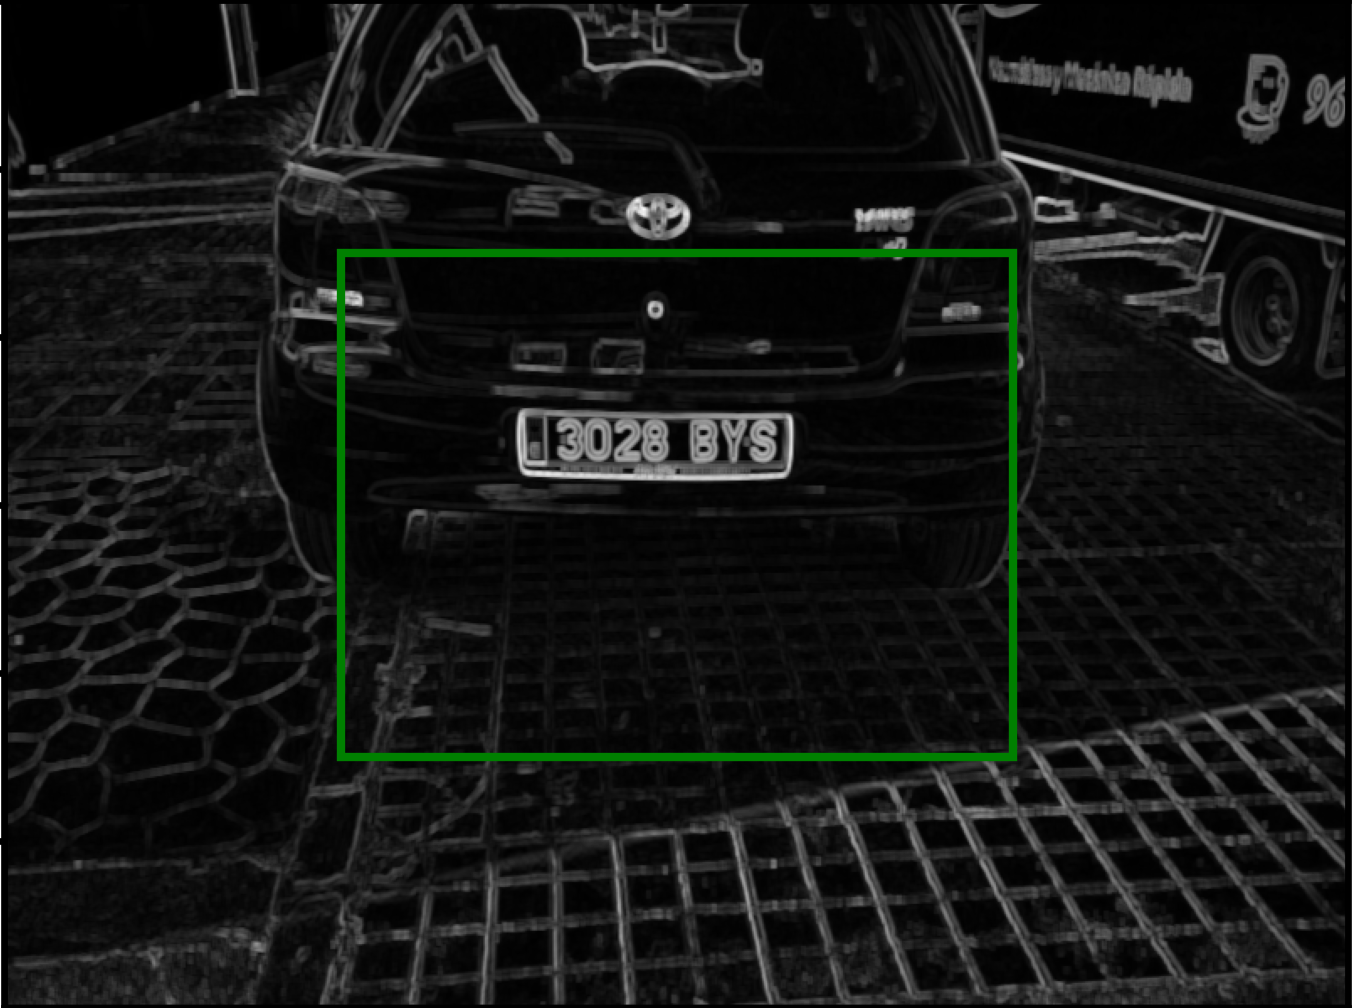
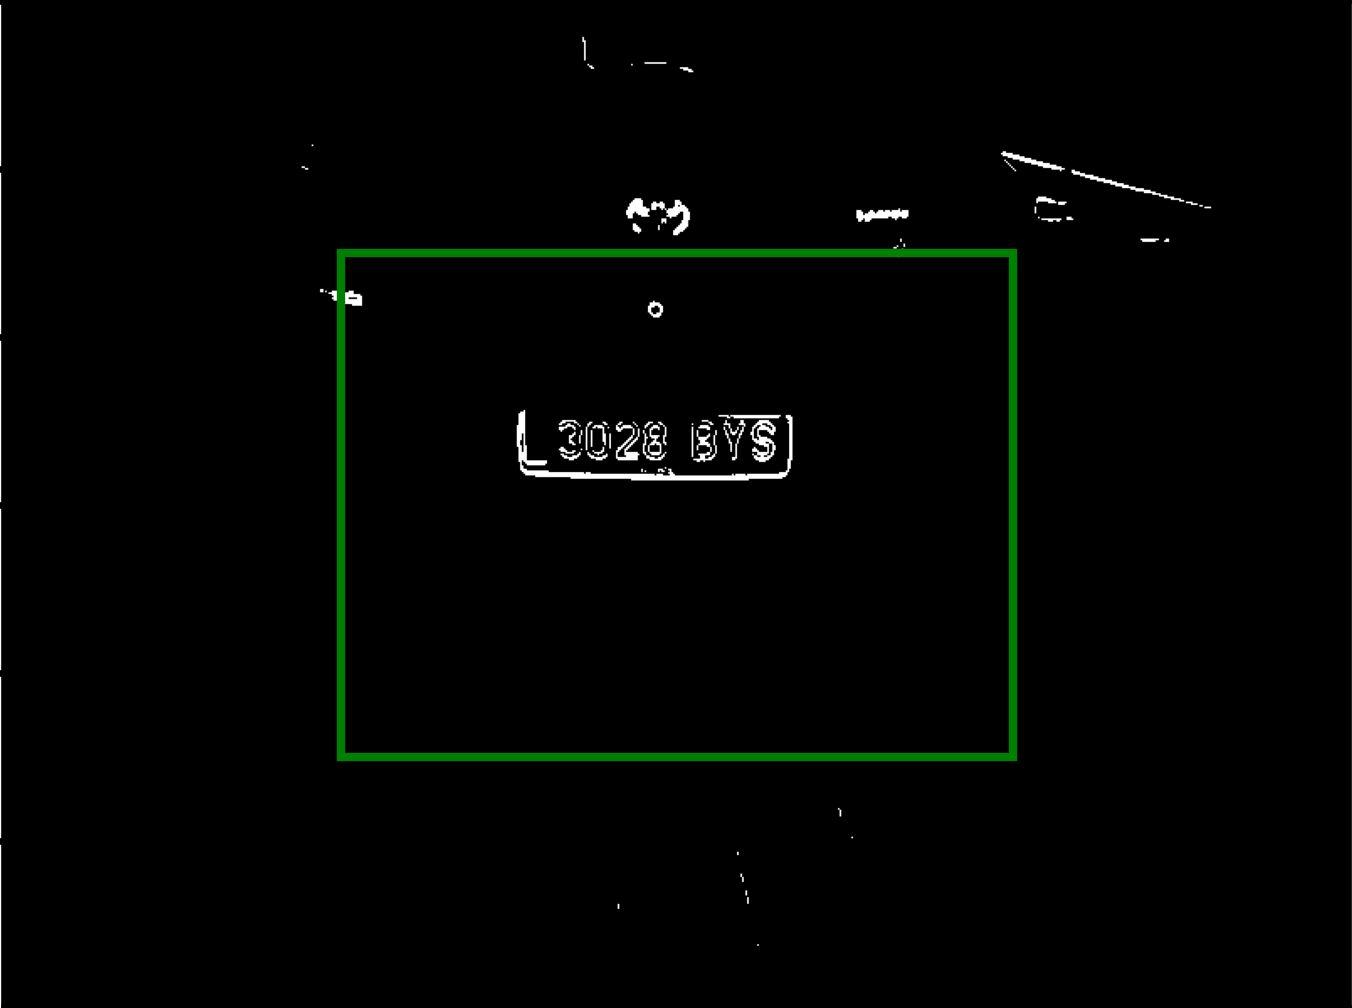
reformat and implemented threshold

diff --git a/CS373LicensePlateDetection.py b/CS373LicensePlateDetection.py
@@ -53,6 +53,24 @@ def createInitializedGreyscalePixelArray(image_width, image_height, initValue=0)
     new_array = [[initValue for x in range(image_width)] for y in range(image_height)]
     return new_array
 
+def stretch(anArray, image_height, image_width):
+    # Stretch to 0 - 255
+    stretched_array = createInitializedGreyscalePixelArray(image_width, image_height)
+    maximum = minimum = anArray[0][0]
+    for r in range(image_height):
+        for c in range(image_width):
+            if anArray[r][c] > maximum:
+                maximum = anArray[r][c]
+            elif anArray[r][c] < minimum:
+                minimum = anArray[r][c]
+
+    if maximum != minimum:
+        a = 255 / (maximum - minimum)
+        for r in range(image_height):
+            for c in range(image_width):
+                stretched_array[r][c] = round((anArray[r][c] - minimum) * a)
+    return stretched_array
+
 
 # This is our code skeleton that performs the license plate detection.
 # Feel free to try it on your own images of cars, but keep in mind that with our algorithm developed in this lecture,
@@ -104,21 +122,7 @@ def main():
             greyscale_pixel_array[r][c] = greyvalue
     print("greyscale done")
 
-    # Stretch to 0 - 255
-    stretched_array = createInitializedGreyscalePixelArray(image_width, image_height)
-    maximum = minimum = greyscale_pixel_array[0][0]
-    for r in range(image_height):
-        for c in range(image_width):
-            if greyscale_pixel_array[r][c] > maximum:
-                maximum = greyscale_pixel_array[r][c]
-            elif greyscale_pixel_array[r][c] < minimum:
-                minimum = greyscale_pixel_array[r][c]
-
-    if maximum != minimum:
-        a = 255 / (maximum - minimum)
-        for r in range(image_height):
-            for c in range(image_width):
-                stretched_array[r][c] = round((greyscale_pixel_array[r][c] - minimum) * a)
+    stretched_array = stretch(greyscale_pixel_array, image_height, image_width)
     print("stretch done")
 
     # computer standard deviation (5 x 5)
@@ -152,14 +156,27 @@ def main():
             temp += pow(stretched_array[r + 2][c - 1] - avg, 2)
             temp += pow(stretched_array[r + 2][c] - avg, 2)
             temp += pow(stretched_array[r + 2][c + 1] - avg, 2)
-            temp = temp /25
+            temp = temp / 25
             sd_array[r][c] = math.sqrt(temp)
-
     print("standard deviation done")
+
+    # stretch high contrast image to 0 to 255 range
+    secondStretch = stretch(sd_array, image_height, image_width)
+    print("stretched again")
+
+    # compute image by threshold to get high contrast area
+    threshold = createInitializedGreyscalePixelArray(image_width, image_height, 0.0)
+    for r in range(image_height):
+        for c in range(image_width):
+            if secondStretch[r][c] < 150:
+                threshold[r][c] = 0
+            else:
+                threshold[r][c] = 255
+    print("threshold done")
 
     #  STUDENT IMPLEMENTATION END
 
-    px_array = sd_array
+    px_array = threshold
 
     # compute a dummy bounding box centered in the middle of the input image, and with as size of half of width and height
     center_x = image_width / 2.0
